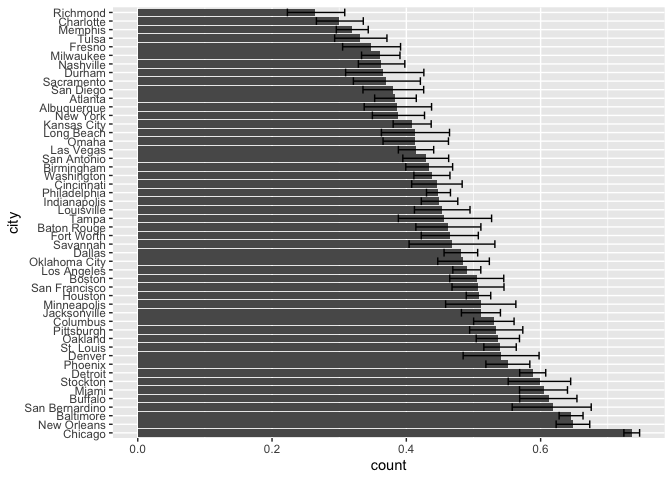
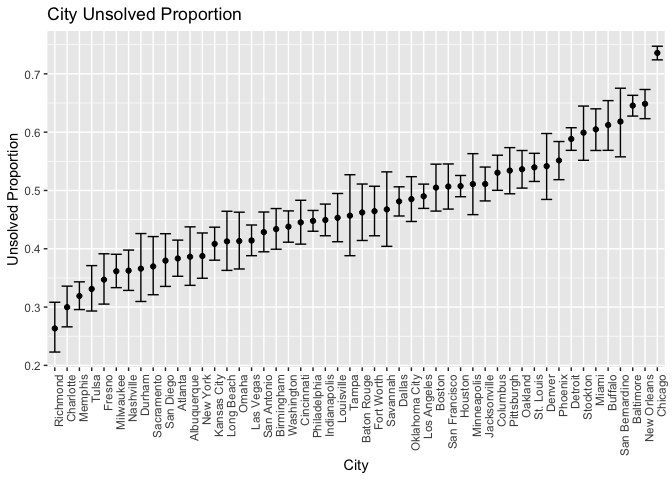
read several csv data using list.file function; And draw a spaghetti plot to show observations.

diff --git a/p8105_hw5_yl4925.md b/p8105_hw5_yl4925.md
@@ -133,70 +133,50 @@ proportion_table = tibble(
 ) %>% 
   unnest(cols = data) %>% 
   select(city, estimate, conf.low, conf.high) 
-knitr::kable(proportion_table)
 ```
-
-| city           |  estimate |  conf.low | conf.high |
-|:---------------|----------:|----------:|----------:|
-| Albuquerque    | 0.3862434 | 0.3372604 | 0.4375766 |
-| Atlanta        | 0.3833505 | 0.3528119 | 0.4148219 |
-| Baltimore      | 0.6455607 | 0.6275625 | 0.6631599 |
-| Baton Rouge    | 0.4622642 | 0.4141987 | 0.5110240 |
-| Birmingham     | 0.4337500 | 0.3991889 | 0.4689557 |
-| Boston         | 0.5048860 | 0.4646219 | 0.5450881 |
-| Buffalo        | 0.6122841 | 0.5687990 | 0.6540879 |
-| Charlotte      | 0.2998544 | 0.2660820 | 0.3358999 |
-| Chicago        | 0.7358627 | 0.7239959 | 0.7473998 |
-| Cincinnati     | 0.4452450 | 0.4079606 | 0.4831439 |
-| Columbus       | 0.5304428 | 0.5002167 | 0.5604506 |
-| Dallas         | 0.4811742 | 0.4561942 | 0.5062475 |
-| Denver         | 0.5416667 | 0.4846098 | 0.5976807 |
-| Detroit        | 0.5883287 | 0.5687903 | 0.6075953 |
-| Durham         | 0.3659420 | 0.3095874 | 0.4260936 |
-| Fort Worth     | 0.4644809 | 0.4222542 | 0.5072119 |
-| Fresno         | 0.3470226 | 0.3051013 | 0.3913963 |
-| Houston        | 0.5074779 | 0.4892447 | 0.5256914 |
-| Indianapolis   | 0.4493192 | 0.4223156 | 0.4766207 |
-| Jacksonville   | 0.5111301 | 0.4820460 | 0.5401402 |
-| Kansas City    | 0.4084034 | 0.3803996 | 0.4370054 |
-| Las Vegas      | 0.4141926 | 0.3881284 | 0.4407395 |
-| Long Beach     | 0.4126984 | 0.3629026 | 0.4642973 |
-| Los Angeles    | 0.4900310 | 0.4692208 | 0.5108754 |
-| Louisville     | 0.4531250 | 0.4120609 | 0.4948235 |
-| Memphis        | 0.3190225 | 0.2957047 | 0.3432691 |
-| Miami          | 0.6048387 | 0.5685783 | 0.6400015 |
-| Milwaukee      | 0.3614350 | 0.3333172 | 0.3905194 |
-| Minneapolis    | 0.5109290 | 0.4585150 | 0.5631099 |
-| Nashville      | 0.3624511 | 0.3285592 | 0.3977401 |
-| New Orleans    | 0.6485356 | 0.6231048 | 0.6731615 |
-| New York       | 0.3875598 | 0.3494421 | 0.4270755 |
-| Oakland        | 0.5364308 | 0.5040588 | 0.5685037 |
-| Oklahoma City  | 0.4851190 | 0.4467861 | 0.5236245 |
-| Omaha          | 0.4132029 | 0.3653146 | 0.4627477 |
-| Philadelphia   | 0.4478103 | 0.4300380 | 0.4657157 |
-| Phoenix        | 0.5514223 | 0.5184825 | 0.5839244 |
-| Pittsburgh     | 0.5340729 | 0.4942706 | 0.5734545 |
-| Richmond       | 0.2634033 | 0.2228571 | 0.3082658 |
-| Sacramento     | 0.3696809 | 0.3211559 | 0.4209131 |
-| San Antonio    | 0.4285714 | 0.3947772 | 0.4630331 |
-| San Bernardino | 0.6181818 | 0.5576628 | 0.6753422 |
-| San Diego      | 0.3796095 | 0.3354259 | 0.4258315 |
-| San Francisco  | 0.5067873 | 0.4680516 | 0.5454433 |
-| Savannah       | 0.4674797 | 0.4041252 | 0.5318665 |
-| St. Louis      | 0.5396541 | 0.5154369 | 0.5636879 |
-| Stockton       | 0.5990991 | 0.5517145 | 0.6447418 |
-| Tampa          | 0.4567308 | 0.3881009 | 0.5269851 |
-| Tulsa          | 0.3310463 | 0.2932349 | 0.3711192 |
-| Washington     | 0.4379182 | 0.4112495 | 0.4649455 |
 
 plot
 
 ``` r
 proportion_table %>% 
-  mutate(city = fct_reorder(city, -estimate)) %>% 
-  ggplot(aes(y = city)) +
-  geom_bar(aes(weight = estimate)) + 
-  geom_errorbar(aes(xmin = conf.low, xmax = conf.high)) 
+  mutate(city = fct_reorder(city, estimate)) %>% 
+  ggplot(aes(city, estimate)) +
+  geom_point() + 
+  geom_errorbar(aes(ymin = conf.low, ymax = conf.high)) + 
+  theme(axis.text.x = element_text(angle = 90, hjust = 1)) +
+  labs(title = "City Unsolved Proportion", x = "City", y = "Unsolved Proportion")
 ```
 
 ![](p8105_hw5_yl4925_files/figure-gfm/unnamed-chunk-8-1.png)<!-- -->
+
+# Problem 2
+
+``` r
+filename = list.files(path = "./data/data")
+pathname = str_c("./data/data/", filename)
+seperate_table_list = purrr::map(.x = pathname, read_csv)
+```
+
+``` r
+arm_id  = str_remove(filename, pattern = ".csv")
+tidy_longitudinal_df = tibble(
+  arm_id,
+  data = seperate_table_list
+) %>% 
+  unnest(cols = data) %>% 
+  mutate(arm_and_id = arm_id) %>% 
+  separate(arm_and_id, into = c("arm", "id"), sep = "_")
+
+tidy_longitudinal_df %>% 
+  pivot_longer(
+    week_1:week_8,
+    names_to = "time",
+    names_prefix = "week_",
+    values_to = "observations"
+  ) %>% 
+  mutate(time = as.numeric(time)) %>% 
+  ggplot(aes(time, observations, color = arm_id)) +
+  geom_line(aes(group = arm_id))
+```
+
+![](p8105_hw5_yl4925_files/figure-gfm/unnamed-chunk-10-1.png)<!-- -->
